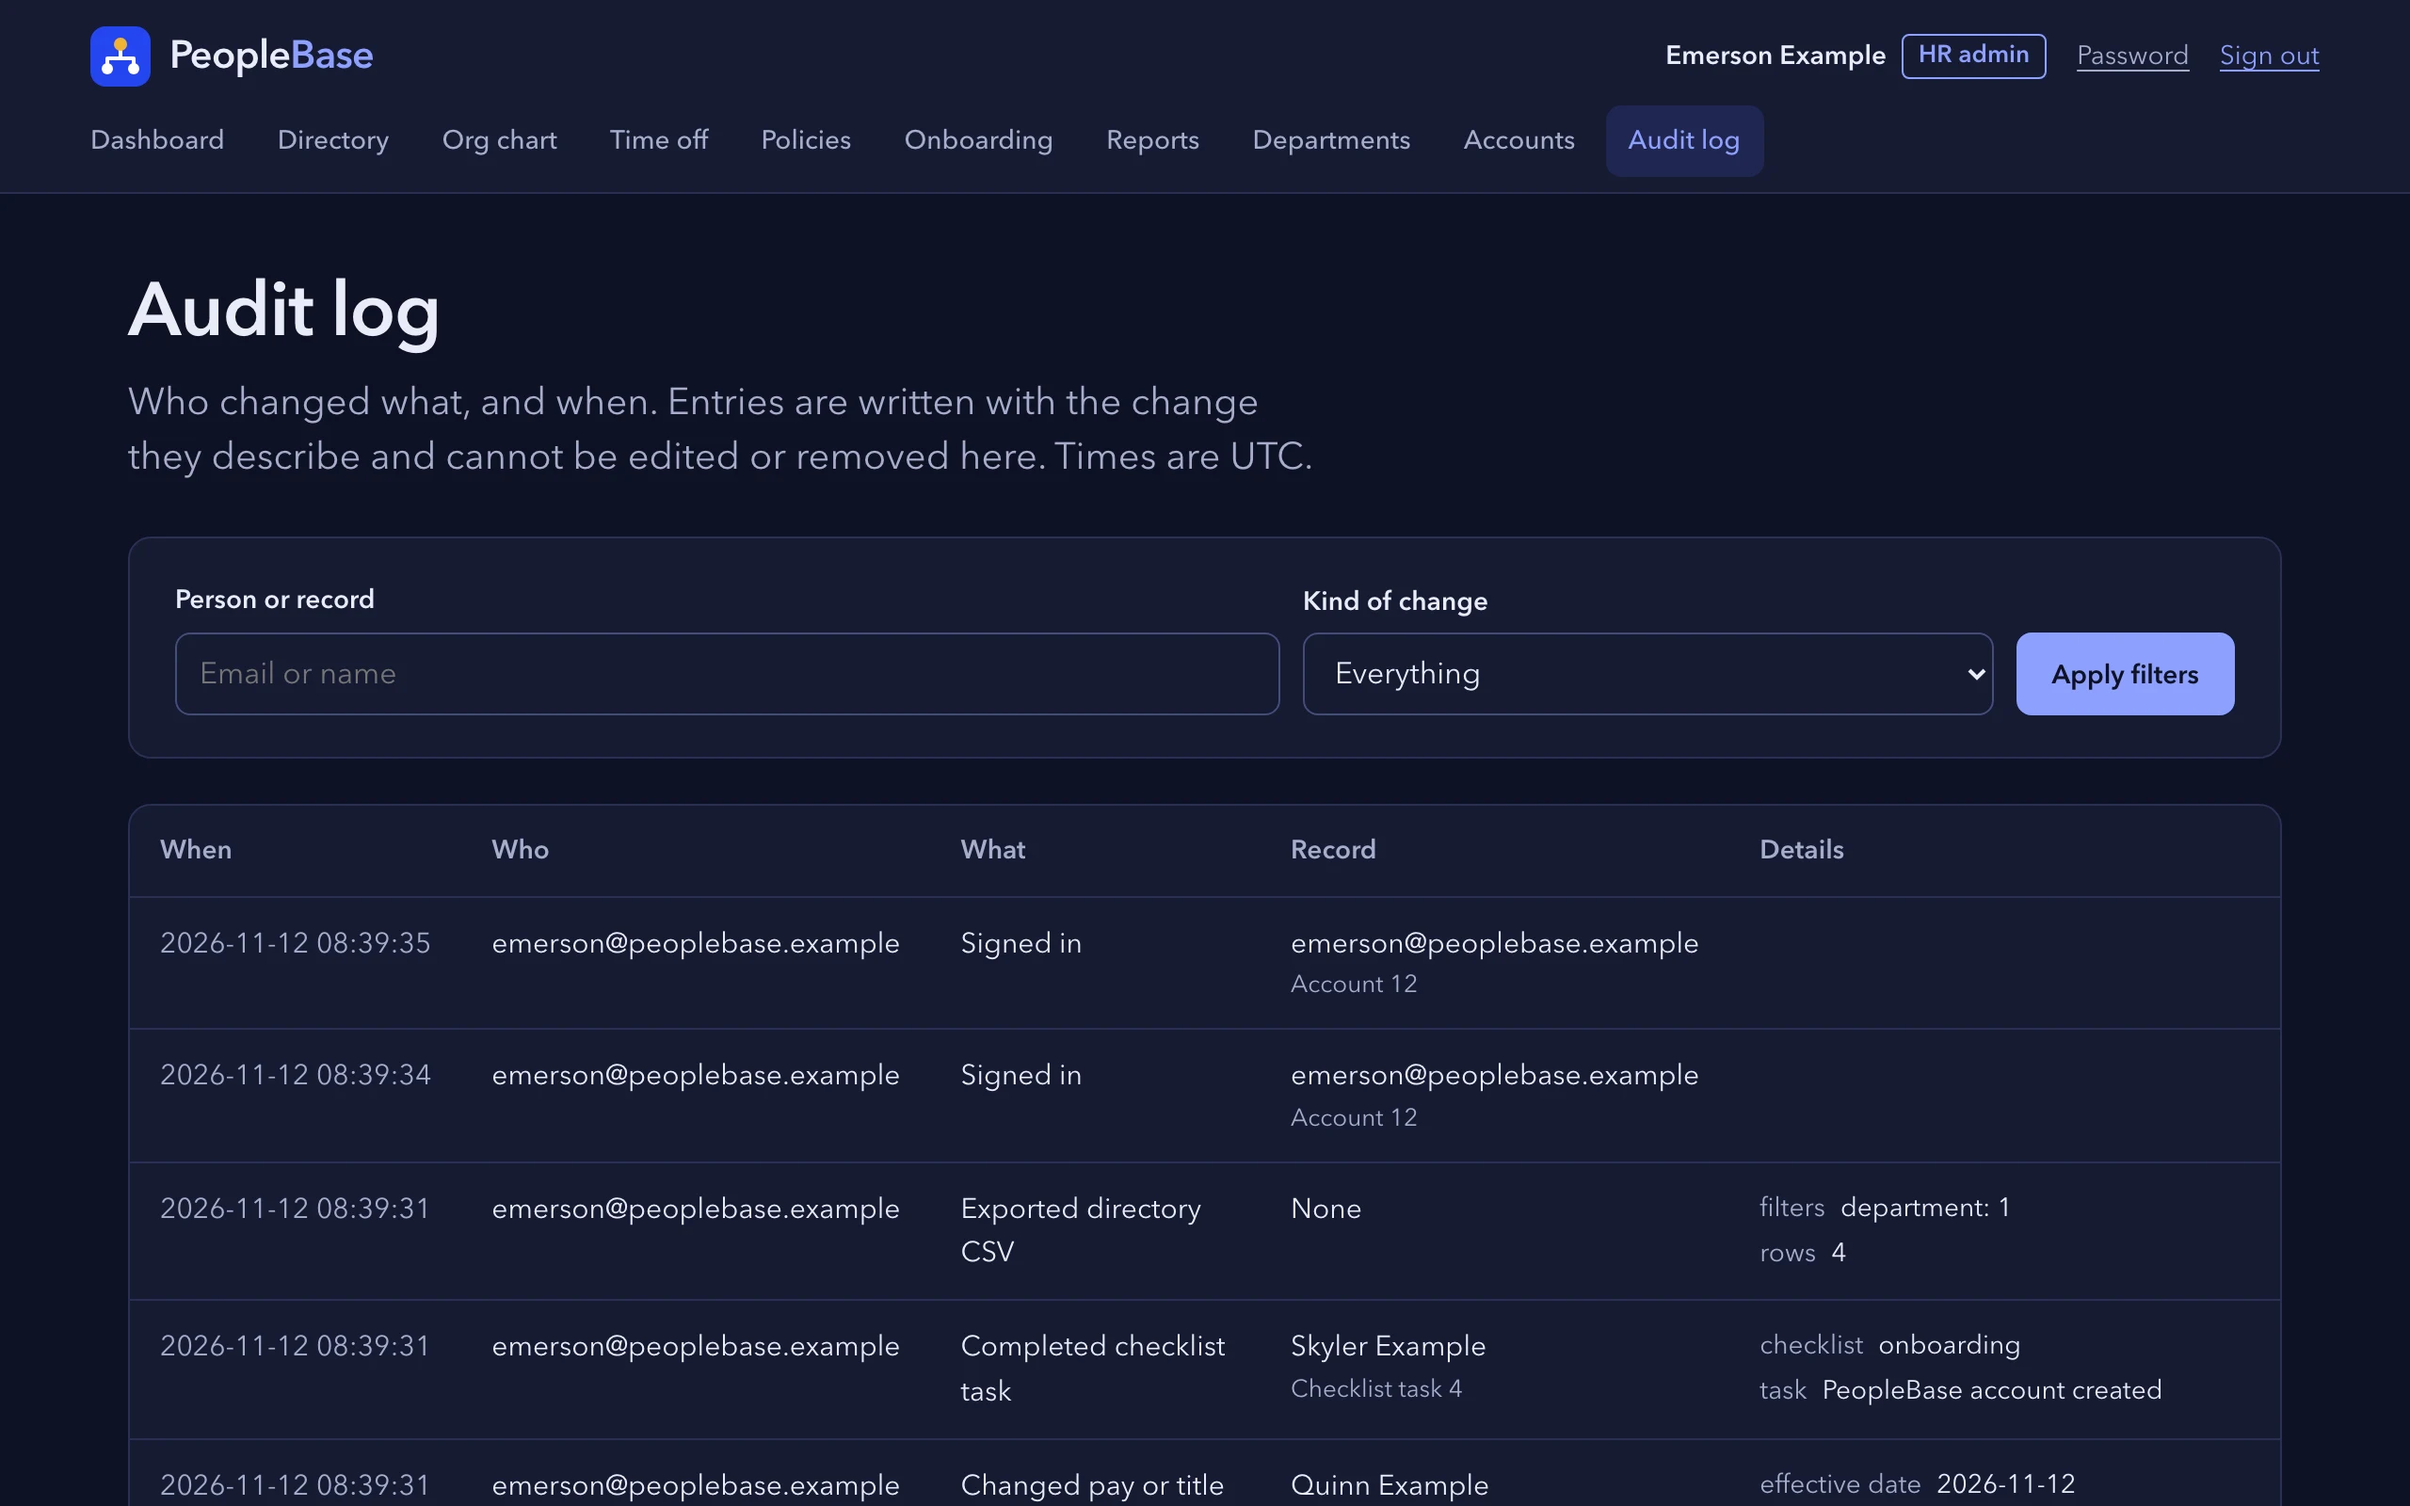
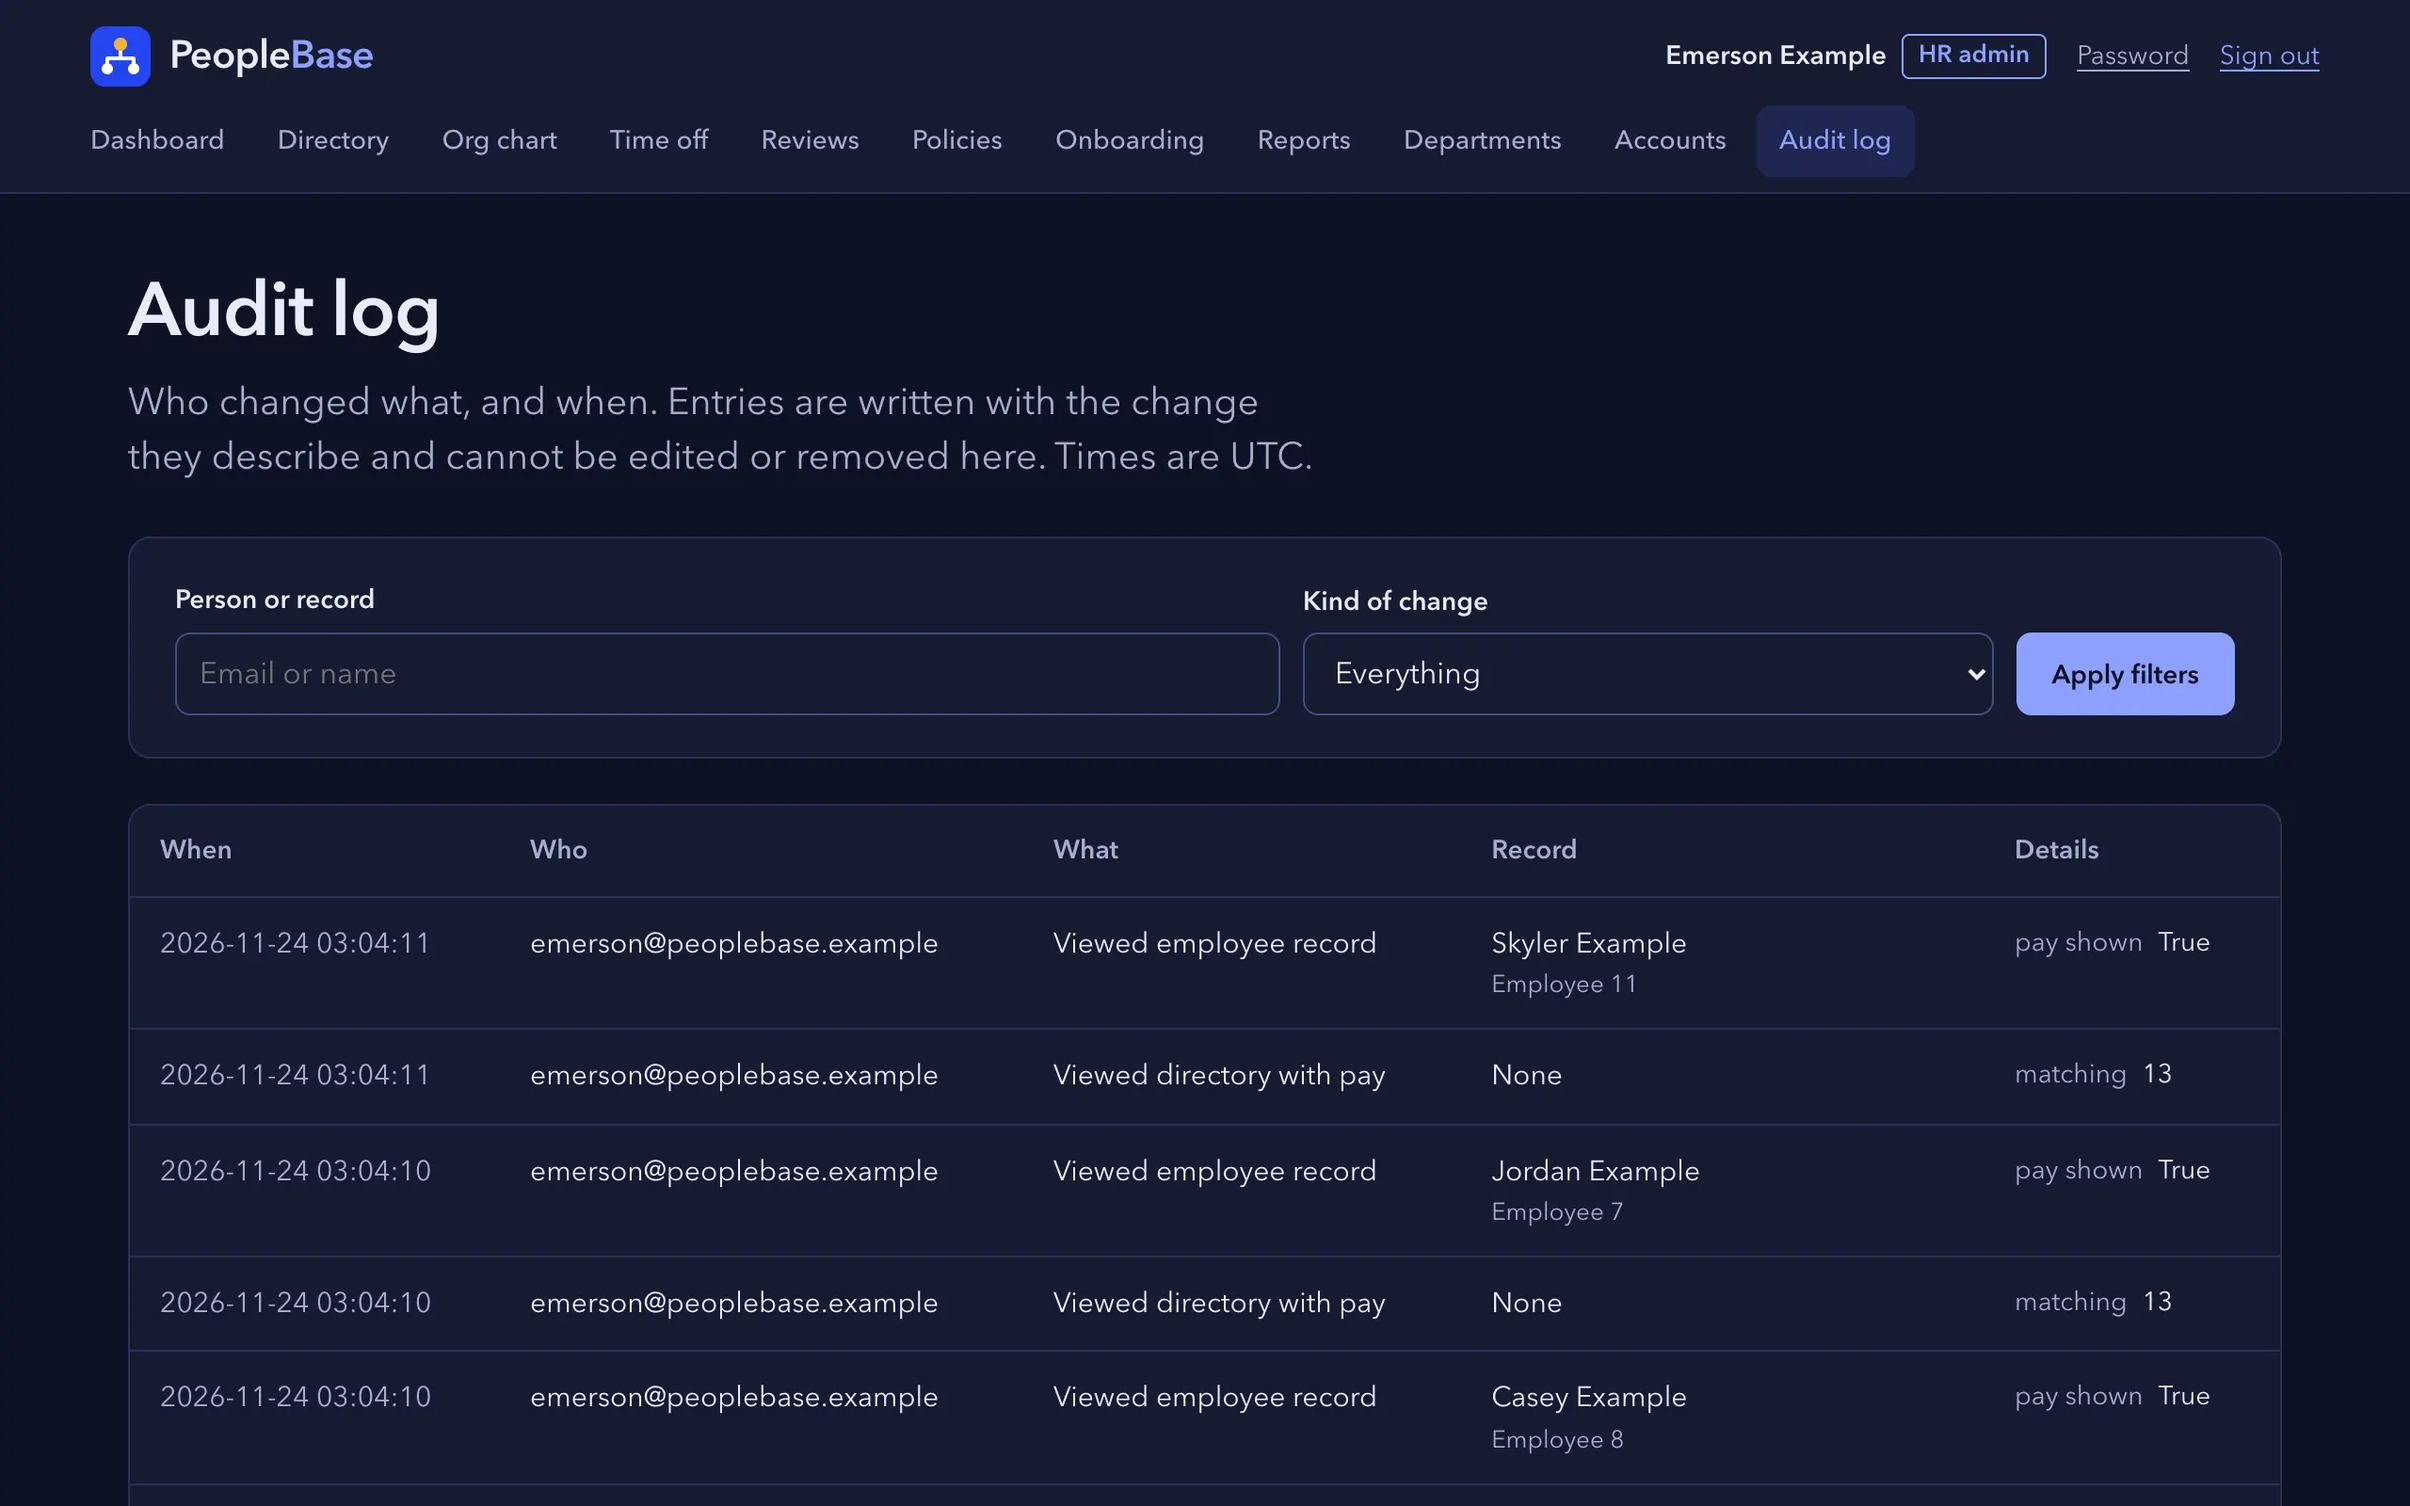
docs(site): show job history, team calendar, reviews, documents and checklist owners

diff --git a/site/index.html b/site/index.html
@@ -4,7 +4,7 @@
 <meta charset="utf-8">
 <meta name="viewport" content="width=device-width, initial-scale=1">
 <title>PeopleBase: a small HRIS with real access control</title>
-<meta name="description" content="PeopleBase is an open source Flask HRIS: sign-in with three roles, access enforced on every route, pay history, time off with leave balances, onboarding checklists, policy sign-off and an append-only audit log.">
+<meta name="description" content="PeopleBase is an open source Flask HRIS: sign-in with three roles, access enforced on every route, job history, pay history, time off with a team calendar, onboarding checklists, performance reviews, documents, policy sign-off and an append-only audit log.">
 <meta name="color-scheme" content="light dark">
 <meta name="theme-color" content="#2546f0">
 <link rel="canonical" href="https://patrickking67.github.io/peoplebase/">
@@ -164,6 +164,7 @@
   <nav aria-label="Project links">
     <a href="#security">Security model</a>
     <a href="#screens">Screens</a>
+    <a href="#features">Features</a>
     <a href="#run">Run it</a>
     <a href="https://github.com/patrickking67/peoplebase">GitHub</a>
   </nav>
@@ -173,7 +174,7 @@
   <div class="wrap hero">
     <div>
       <h1>People data, and who gets to see it.</h1>
-      <p class="lede">PeopleBase is a small HRIS in Flask: records, pay history, time off, onboarding, policies and an audit log. Employees, managers and HR sign in, and the server decides on every request what each of them may open.</p>
+      <p class="lede">PeopleBase is a small HRIS in Flask: records and job history, pay, time off with a team calendar, onboarding, performance reviews, documents, policies and an audit log of changes and sensitive reads. Employees, managers and HR sign in, and the server decides on every request what each of them may open.</p>
       <div class="actions">
         <a class="button" href="https://github.com/patrickking67/peoplebase">View the source</a>
         <a class="button button-quiet" href="https://github.com/patrickking67/peoplebase/blob/main/docs/security.md">Read the security model</a>
@@ -275,7 +276,42 @@
         <source media="(prefers-color-scheme: dark)" srcset="assets/audit-log-dark.webp">
         <img src="assets/audit-log-light.webp" width="2560" height="1600" alt="The audit log: rows for a sign-in, a directory CSV export, a completed checklist task and a pay change showing the old and new title and salary." loading="lazy">
       </picture>
-          <figcaption><strong>Audit log.</strong> Who changed what, with old and new values. HR can read it; nobody can edit it.</figcaption>
+          <figcaption><strong>Audit log.</strong> Who changed what, with old and new values, and who looked at someone else's record. HR can read it; nobody can edit it.</figcaption>
+        </figure>
+        <figure class="shot">
+          <picture>
+        <source media="(prefers-color-scheme: dark)" srcset="assets/reviews-dark.webp">
+        <img src="assets/reviews-light.webp" width="2560" height="1600" alt="A manager's view of one review: the person's self review rated 4 of 5 and the manager's review rated 5 of 5, each a short paragraph, in a cycle that is still open." loading="lazy">
+      </picture>
+          <figcaption><strong>Performance reviews.</strong> A self review, then the direct manager's. Each half is written once, and the person reads the manager's only after HR closes the cycle.</figcaption>
+        </figure>
+        <figure class="shot">
+          <picture>
+        <source media="(prefers-color-scheme: dark)" srcset="assets/calendar-dark.webp">
+        <img src="assets/calendar-light.webp" width="2560" height="1600" alt="The team calendar for November 2026 signed in as HR, a month grid with leave shown as names and the kind of leave on the days people are out." loading="lazy">
+      </picture>
+          <figcaption><strong>Team calendar.</strong> Each person sees their own team. Colleagues show as out without the kind of leave; HR sees everyone.</figcaption>
+        </figure>
+        <figure class="shot">
+          <picture>
+        <source media="(prefers-color-scheme: dark)" srcset="assets/documents-dark.webp">
+        <img src="assets/documents-light.webp" width="2560" height="1600" alt="The documents page for one person signed in as HR: three PDF files with category, who each is shared with, date added and size, with Download and Delete links and an upload form below." loading="lazy">
+      </picture>
+          <figcaption><strong>Documents.</strong> PDF, PNG and JPEG on a record, each shared with HR only, the person, or the person and their managers.</figcaption>
+        </figure>
+        <figure class="shot">
+          <picture>
+        <source media="(prefers-color-scheme: dark)" srcset="assets/onboarding-dark.webp">
+        <img src="assets/onboarding-light.webp" width="2560" height="1600" alt="An onboarding checklist with an owner and due date on each task, two overdue tasks flagged in red, followed by a documents panel and a job history table." loading="lazy">
+      </picture>
+          <figcaption><strong>Checklists with owners.</strong> Each task has an owner and a due date, overdue tasks are flagged, and employees can tick the ones that are theirs.</figcaption>
+        </figure>
+        <figure class="shot">
+          <picture>
+        <source media="(prefers-color-scheme: dark)" srcset="assets/job-history-dark.webp">
+        <img src="assets/job-history-light.webp" width="2560" height="1600" alt="A job history table with two rows, Engineer then Senior Engineer, each with department, manager and reason, above the separate compensation history." loading="lazy">
+      </picture>
+          <figcaption><strong>Job history.</strong> Title, department and manager over time, kept apart from pay so managers can read one and not the other.</figcaption>
         </figure>
       </div>
     </div>
@@ -291,7 +327,11 @@
         <div><dt>People and reporting lines</dt><dd>Records with department, manager, status, start date and last day, a searchable directory and the org chart.</dd></div>
         <div><dt>Pay history</dt><dd>Every title or salary change with its effective date and reason, and a CSV export that spreadsheets cannot run as formulas.</dd></div>
         <div><dt>Time off and leave balances</dt><dd>Requests, approval up the reporting line, and balances per leave type that accrue monthly in working days.</dd></div>
-        <div><dt>Onboarding and offboarding</dt><dd>A checklist for each new hire and each leaver. Marking someone as left turns off their account.</dd></div>
+        <div><dt>Onboarding and offboarding</dt><dd>A checklist for each new hire and each leaver, with an owner and a due date on every task. Marking someone as left turns off their account.</dd></div>
+        <div><dt>Job history</dt><dd>Every title, department and manager change with its date and reason, filled from the pay history when you upgrade.</dd></div>
+        <div><dt>Team calendar</dt><dd>A month view of leave. Colleagues see who is out; the kind of leave is for the person, their managers and HR.</dd></div>
+        <div><dt>Performance reviews</dt><dd>Cycles opened by HR, a self review and a direct manager review, released when the cycle closes. Skip-level managers do not read them.</dd></div>
+        <div><dt>Documents</dt><dd>Contracts, letters and certificates, shared with HR only, the person, or the person and their managers. Checked by content, stored outside the web root.</dd></div>
         <div><dt>Policy acknowledgements</dt><dd>Published text never changes. A revision is a new version, and everyone is asked again.</dd></div>
         <div><dt>Headcount and attrition</dt><dd>Twelve months of hires, leavers and headcount, with a CSV cut to the viewer's own reporting tree.</dd></div>
       </dl>
@@ -301,7 +341,7 @@
   <section id="details">
     <div class="wrap proof">
       <div>
-        <p class="count">705</p>
+        <p class="count">706</p>
         <p class="count-label">tests run on every pull request, on Python 3.11, 3.12 and 3.13.</p>
       </div>
       <ul class="checks">
